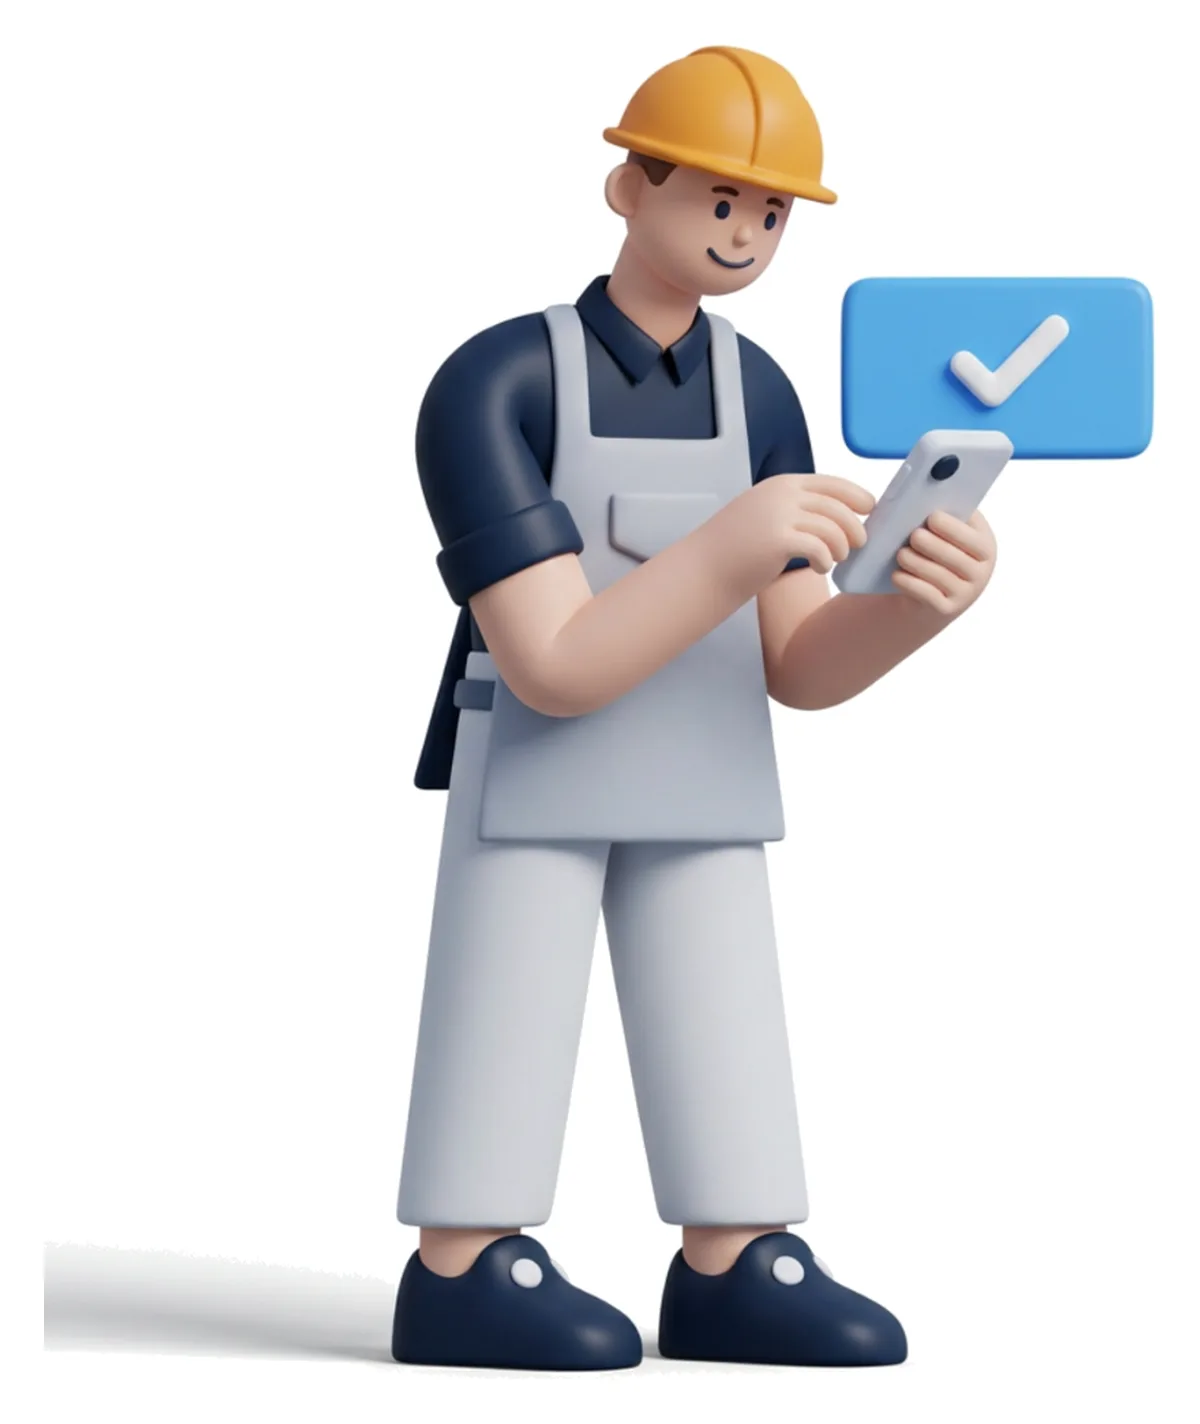
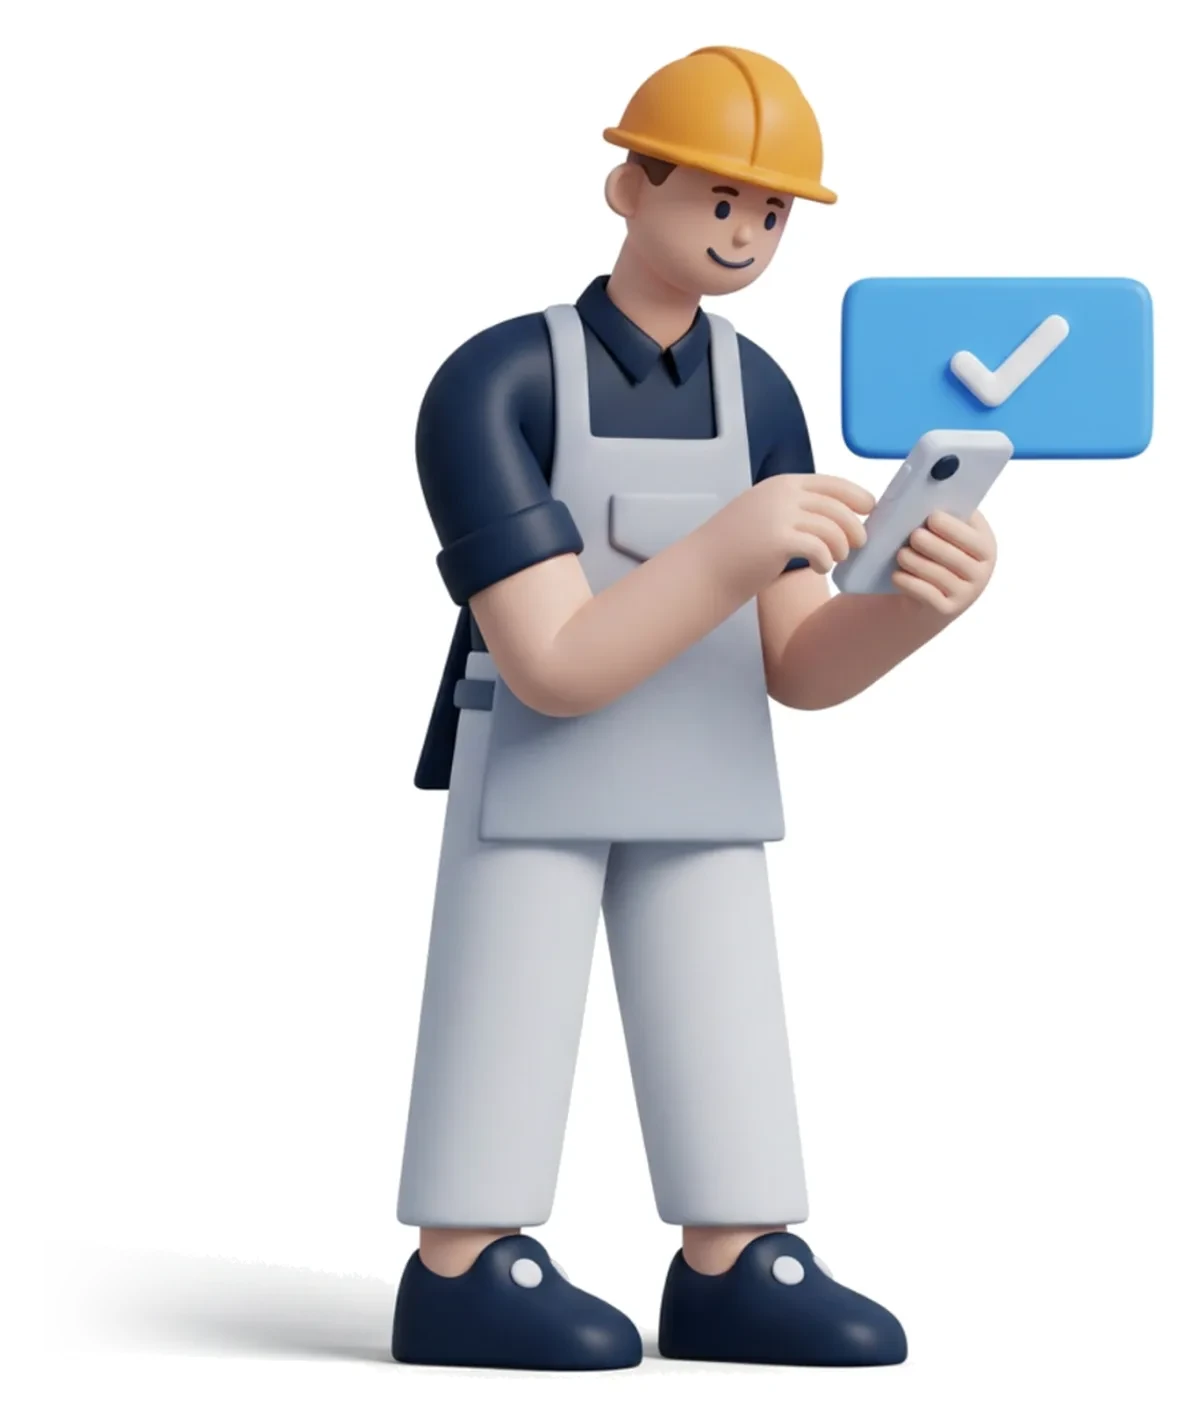
Funktionssidor: hero direkt under headern (R26), mjuk kant på illustrationer (R27), en rad underrubrik under sektionsrubriker (R28)
Claude-Session: https://claude.ai/code/session_015ffAXDxeVKdc77Zx7Ff7pg

Changed region(s): [[0.0308, 0.8961, 0.185, 0.9579]]

diff --git a/src/content/funktion-pages.ts b/src/content/funktion-pages.ts
@@ -51,6 +51,8 @@ export type FunktionPage = {
   lead: string;
   hero: FunktionImage;
   stepsHeading: [string, string];
+  /** R28: one line under the steps heading. */
+  stepsLead: string;
   steps: FunktionStep[];
   /** Long content (HTML, styled by .blog-article-content). */
   body: string;
@@ -158,6 +160,7 @@ const TIDSYSTEM: FunktionPage = {
     alt: 'Byggarbetare i hjälm checkar in med mobilen vid en byggarbetsplats med ställning och en platsmarkör',
   },
   stepsHeading: ['Tre steg', 'till lön'],
+  stepsLead: 'Stämpla in på bygget, granska timmarna och exportera.',
   steps: [
     {
       title: 'Stämpla in på bygget',
@@ -339,6 +342,7 @@ const HANTVERKARE: FunktionPage = {
     alt: 'Hantverkare med verktygsbälte och hjälm tittar i mobilen bredvid sin servicebil med öppna bakdörrar',
   },
   stepsHeading: ['Jobb, kvitto', 'och faktura'],
+  stepsLead: 'Tid per kund, kvitton på rätt jobb och faktura med ROT.',
   steps: [
     {
       title: 'Tid per kund',
@@ -504,6 +508,7 @@ const BYGGDAGBOK: FunktionPage = {
     alt: 'Arbetsledare i platskontoret skriver dagens anteckning vid datorn, med en byggkran och ett väderikon utanför fönstret',
   },
   stepsHeading: ['Dagboken', 'i projektet'],
+  stepsLead: 'Dagens anteckning, foton från bygget och vilka som var på plats.',
   steps: [
     {
       title: 'Dagens anteckning',
@@ -704,6 +709,7 @@ const RESURSPLANERING: FunktionPage = {
     alt: 'Planerare pekar på en stor tavla med ett Gantt-schema med blå staplar, en bygghjälm på golvet',
   },
   stepsHeading: ['Planera', 'och följ upp'],
+  stepsLead: 'Bemanning dag för dag, Gantt för alla projekt och uppföljning med timmar.',
   steps: [
     {
       title: 'Bemanning dag för dag',
@@ -899,6 +905,7 @@ const EGENKONTROLL: FunktionPage = {
     alt: 'Byggarbetare i hjälm håller en surfplatta med bockar framför en öppen regelvägg medan en kollega bär fram en gipsskiva',
   },
   stepsHeading: ['Dokumentera', 'kvaliteten'],
+  stepsLead: 'Foton från bygget, byggdagbok och uppgifter med deadline.',
   steps: [
     {
       title: 'Foton från bygget',
@@ -1114,6 +1121,7 @@ const ARBETSORDER: FunktionPage = {
     alt: 'Hantverkare i hjälm och förkläde trycker på mobilen bredvid en blå ruta med en vit bock',
   },
   stepsHeading: ['Boka', 'jobben'],
+  stepsLead: 'Boka i kalendern, samla underlaget på ordern och påminn tills det är klart.',
   steps: [
     {
       title: 'Boka i kalendern',

diff --git a/src/content/funksjon-pages-nb.ts b/src/content/funksjon-pages-nb.ts
@@ -81,6 +81,7 @@ const KS_SYSTEM: FunksjonPageNb = {
     alt: 'Bygningsarbeider med hjelm holder et nettbrett med haker foran en åpen bindingsverksvegg mens en kollega bærer frem en gipsplate',
   },
   stepsHeading: ['Dokumenter', 'kvaliteten'],
+  stepsLead: 'Bilder fra bygget, byggedagbok og tiltak med frist.',
   steps: [
     {
       title: 'Bilder fra bygget',
@@ -297,6 +298,7 @@ const TIMEREGISTRERING: FunksjonPageNb = {
     alt: 'Bygningsarbeider med hjelm sjekker inn med mobilen ved en byggeplass med stillas og en kartmarkør',
   },
   stepsHeading: ['Tre steg', 'til lønn'],
+  stepsLead: 'Stemple inn på bygget, gå gjennom timene og eksporter.',
   steps: [
     {
       title: 'Stemple inn på bygget',
@@ -480,6 +482,7 @@ const PROSJEKTSTYRING: FunksjonPageNb = {
     alt: 'Prosjektleder står ved en stor oversiktstavle med kort og diagrammer foran et hus under oppføring med stillas',
   },
   stepsHeading: ['Plan, oppgaver', 'og økonomi'],
+  stepsLead: 'Planlegg prosjektet, følg opp oppgavene og se marginen.',
   steps: [
     {
       title: 'Planlegg prosjektet',
@@ -670,6 +673,7 @@ const BEMANNINGSPLAN: FunksjonPageNb = {
     alt: 'Planlegger plasserer en arbeider med hjelm i en rute på en stor bemanningstavle med ansatte og dager',
   },
   stepsHeading: ['Planlegg', 'og følg opp'],
+  stepsLead: 'Bemanning dag for dag, Gantt og fravær i samme plan.',
   steps: [
     {
       title: 'Bemanning dag for dag',
@@ -873,6 +877,7 @@ const TILBUDSPROGRAM: FunksjonPageNb = {
     alt: 'Håndverker med caps sitter ved en bærbar PC og skriver, ved siden av et ark med et hus bak et stillas og en penn',
   },
   stepsHeading: ['Tilbud, faktura', 'og oppfølging'],
+  stepsLead: 'Lag tilbudet, fakturer timene og følg pengene.',
   steps: [
     {
       title: 'Lag tilbudet',
@@ -1111,6 +1116,7 @@ const HMS_SYSTEM: FunksjonPageNb = {
     alt: 'Bygningsarbeider med hjelm krysser av på en stor sjekkliste, med en ringende bjelle og en klokke ved siden av',
   },
   stepsHeading: ['Fra avvik', 'til lukket sak'],
+  stepsLead: 'Avvik fra dagboken, tiltak med frist og bilder fra bygget.',
   steps: [
     {
       title: 'Avvik fra dagboken',

diff --git a/src/components/FunktionPage/FunktionPageView.tsx b/src/components/FunktionPage/FunktionPageView.tsx
@@ -42,7 +42,9 @@ const UI = {
     prev: "Föregående",
     next: "Nästa",
     faq: "Vanliga frågor",
+    faqSub: "Korta svar på det byggföretag brukar fråga om.",
     guides: "Guider",
+    guidesSub: "Läs vidare om samma ämne.",
     priceNote: "14 dagar gratis · Ingen bindningstid · exkl. moms",
     close: "Stäng",
     usersFaktura: "max 2 användare",
@@ -62,7 +64,9 @@ const UI = {
     prev: "Forrige",
     next: "Neste",
     faq: "Vanlige spørsmål",
+    faqSub: "Korte svar på det byggefirmaer pleier å spørre om.",
     guides: "Guider",
+    guidesSub: "Les videre om samme tema.",
     priceNote: "14 dager gratis · Ingen bindingstid · eks. mva.",
     close: "Lukk",
     usersFaktura: "maks 2 brukere",
@@ -281,6 +285,7 @@ export default function FunktionPageView({ lang, slug }: Props) {
               <h2>
                 {page.stepsHeading[0]} <em>{page.stepsHeading[1]}</em>
               </h2>
+              <p className="fn-section-sub">{page.stepsLead}</p>
             </div>
             <div className="features-slider">
               {multiStep && (
@@ -376,6 +381,7 @@ export default function FunktionPageView({ lang, slug }: Props) {
               <h2 id="fn-faq-heading" className="lead-magnet-section-heading">
                 {ui.faq}
               </h2>
+              <p className="fn-section-sub">{ui.faqSub}</p>
               <dl className="lead-magnet-faq-list">
                 {page.faq.map((item) => (
                   <div key={item.question} className="lead-magnet-faq-item">
@@ -388,6 +394,7 @@ export default function FunktionPageView({ lang, slug }: Props) {
 
             <nav className="lead-magnet-related" aria-label={ui.guides}>
               <h2 className="lead-magnet-section-heading">{ui.guides}</h2>
+              <p className="fn-section-sub">{ui.guidesSub}</p>
               <ul className="lead-magnet-related-list">
                 {page.related.map((link) => (
                   <li key={link.href}>

diff --git a/src/styles/design-system.scss b/src/styles/design-system.scss
@@ -263,3 +263,55 @@
   color: var(--muted);
   line-height: 1.5;
 }
+
+/* R26: feature pages — hero text starts right under the header: smaller top
+   padding, columns aligned to the top, illustration height capped so a tall
+   image cannot push the heading down. */
+.fn .em-hero {
+  padding-top: 48px;
+}
+.fn .em-hero-inner {
+  align-items: start;
+}
+.fn-hero-visual img {
+  width: auto;
+  max-width: 100%;
+  max-height: 520px;
+  margin: 0 auto;
+}
+@media (max-width: 900px) {
+  .fn .em-hero {
+    padding-top: 32px;
+  }
+}
+
+/* R27: a baked shadow or floor must never end in a hard cut — every feature
+   page illustration fades out towards its edges. */
+.fn-hero-visual img,
+.blog-article-content .fn-illu img {
+  -webkit-mask-image: linear-gradient(to right, transparent 0, #000 10%, #000 90%, transparent 100%),
+    linear-gradient(to bottom, transparent 0, #000 6%, #000 94%, transparent 100%);
+  mask-image: linear-gradient(to right, transparent 0, #000 10%, #000 90%, transparent 100%),
+    linear-gradient(to bottom, transparent 0, #000 6%, #000 94%, transparent 100%);
+  -webkit-mask-composite: source-in;
+  mask-composite: intersect;
+}
+
+/* R28: feature pages — every section heading gets one line of subheading
+   (muted, same look as the R22 lead line). Replaces the "no subtitle" part of
+   R5 on these pages. */
+.fn .fn-section-sub {
+  margin: 10px 0 0;
+  color: var(--muted);
+  font-size: 1.05rem;
+  line-height: 1.5;
+}
+.fn .lead-magnet-section-heading {
+  margin-bottom: 0;
+}
+.fn .lead-magnet-section-heading + .fn-section-sub {
+  margin: 6px 0 16px;
+}
+.fn .section-head h2 {
+  margin-bottom: 0;
+}

diff --git a/src/content/funktion-pages-a.ts b/src/content/funktion-pages-a.ts
@@ -81,6 +81,7 @@ const STAMPELKLOCKA: FunktionPage = {
     alt: 'Byggarbetare i hjälm och overall stämplar in med mobilen framför en byggnad med ställning, med en blå platsmarkör ovanför',
   },
   stepsHeading: ['Stämpla in', 'och se läget'],
+  stepsLead: 'Stämpling i appen, läget i realtid och attest av timmarna.',
   steps: [
     {
       title: 'Se vem som är på jobbet',
@@ -266,6 +267,7 @@ const SCHEMALAGGNING: FunktionPage = {
     alt: 'Nöjd planerare lutar sig tillbaka i kontorsstolen bredvid en stor kalender med en bock',
   },
   stepsHeading: ['Lägg schemat', 'och följ upp'],
+  stepsLead: 'Planerade timmar, frånvaro och schema dag för dag.',
   steps: [
     {
       title: 'Planerade timmar per person',
@@ -459,6 +461,7 @@ const PROJEKTHANTERING: FunktionPage = {
     alt: 'Projektledare står vid en stor översiktspanel med kort och diagram framför ett hus under uppbyggnad med ställning',
   },
   stepsHeading: ['Allt om projektet', 'på ett ställe'],
+  stepsLead: 'Projektet, uppgifterna och fotona samlade för hela laget.',
   steps: [
     {
       title: 'Allt om projektet',
@@ -662,6 +665,7 @@ const PROJEKTPLANERING: FunktionPage = {
     alt: 'Projektledare pekar på en stor tavla med ett Gantt-schema där blå staplar ligger på var sin rad, med en kontorsstol bakom',
   },
   stepsHeading: ['Tidplan', 'från start till slut'],
+  stepsLead: 'Alla projekt i en tidslinje, vecka för vecka.',
   steps: [
     {
       title: 'Projekten vecka för vecka',

diff --git a/src/content/funktion-pages-b.ts b/src/content/funktion-pages-b.ts
@@ -91,6 +91,7 @@ const OFFERT_KALKYL: FunktionPage = {
     alt: 'Hantverkare i keps sitter vid en laptop och skriver, bredvid ett papper med en bild av ett hus bakom en byggställning och en penna',
   },
   stepsHeading: ['Kalkyl, offert', 'och faktura'],
+  stepsLead: 'Skapa offerten, gör om den till faktura och följ marginalen.',
   steps: [
     {
       title: 'Skapa offerten',
@@ -273,6 +274,7 @@ const FAKTURERING: FunktionPage = {
     alt: 'Hantverkare i hjälm står vid en laptop där ett papper med blå linjer kommer ut ur skärmen, bredvid ett litet hus med blått tak',
   },
   stepsHeading: ['Faktura, kvitto', 'och betalning'],
+  stepsLead: 'Skapa fakturan, lägg kostnaderna på projektet och följ betalningarna.',
   steps: [
     {
       title: 'Skapa fakturan',
@@ -452,6 +454,7 @@ const LON: FunktionPage = {
     alt: 'Kvinna vid ett skrivbord framför en skärm med stapeldiagram och en klocka, med en hög guldmynt bredvid tangentbordet',
   },
   stepsHeading: ['Från timmar', 'till lön'],
+  stepsLead: 'Timmar från appen, attest och lönekörning.',
   steps: [
     {
       title: 'Timmar från appen',
@@ -650,6 +653,7 @@ const ATA: FunktionPage = {
     alt: 'Snickare i hjälm har lyft upp en golvskiva i ett badrum och visar rören under för en kund som böjer sig fram',
   },
   stepsHeading: ['Registrera, godkänn', 'och fakturera'],
+  stepsLead: 'Märk dagen med ÄTA, följ beloppen och fakturera.',
   steps: [
     {
       title: 'Märk dagen med ÄTA',

diff --git a/src/content/funktion-pages-c.ts b/src/content/funktion-pages-c.ts
@@ -81,6 +81,7 @@ const UTLAGG: FunktionPage = {
     alt: 'Byggarbetare i hjälm fotar ett kvitto med mobilen utanför en butik',
   },
   stepsHeading: ['Från kvitto', 'till projekt'],
+  stepsLead: 'Fota kvittot, attestera och följ kostnaden på projektet.',
   steps: [
     {
       title: 'Fota kvittot',
@@ -271,6 +272,7 @@ const VERKTYG: FunktionPage = {
     alt: 'Hantverkare på knä håller en blå skruvdragare och en QR-etikett, en verktygslåda och en cirkelsåg på hyllan bakom',
   },
   stepsHeading: ['Register', 'med QR-kod'],
+  stepsLead: 'Registrera verktygen och se vem som har vad.',
   steps: [
     {
       title: 'Registrera verktygen',

diff --git a/DESIGN-SYSTEM.md b/DESIGN-SYSTEM.md
@@ -87,6 +87,15 @@
 
 **R25 · 2026-11-15 · Термин «order».** То, что создаёт «Ny bokning → Arbetsorder», называется order / arbetsorder (раньше называли проект). На сайте не пишем «ordern blir ett projekt»; слово «Projekt» — только как название списка в меню, пока оно так подписано в продукте.
 
+**R26 · 2026-11-15 · Страницы функций: первый экран начинается сразу под шапкой.** В hero `/sv/funktioner/<slug>` и `/nb/funksjoner/<slug>` текст (крошки → H1 → цена → лид → кнопка) прижат к верху: верхний отступ секции 48px (моб. 32px), колонки выровнены по верху, а не по центру. Высота иллюстрации ограничена 520px, чтобы высокая картинка не растягивала экран и не отодвигала заголовок вниз.
+Код: `.fn .em-hero`, `.fn .em-hero-inner`, `.fn-hero-visual img` в `src/styles/design-system.scss`.
+
+**R27 · 2026-11-15 · Тень и край иллюстрации никогда не обрываются резко.** У 3D-иллюстраций тень «впечена» в картинку и может упираться в её край. Поэтому все иллюстрации страниц функций (hero и в тексте) растворяются к краям маской: по 10% слева и справа, 6% сверху и снизу. Прямой срез тени или пола на странице — брак.
+Код: `.fn-hero-visual img`, `.blog-article-content .fn-illu img` в `src/styles/design-system.scss`.
+
+**R28 · 2026-11-15 · Страницы функций: под заголовком секции — одна строка подзаголовка.** На `/sv/funktioner/<slug>` и `/nb/funksjoner/<slug>` у заголовков секций (шаги, «Vanliga frågor», «Guider»; у блока цены строка уже есть) стоит подзаголовок в одну строку, серым, без точки с запятой и без второй фразы. Для шагов текст задаётся полем `stepsLead` страницы (что именно показано в шагах), для FAQ и Guider — общий на язык. Заменяет на этих страницах часть R5 «без подзаголовка»; надзаголовков (eyebrow) по-прежнему нет.
+Код: `FunktionPageView.tsx` (`.fn-section-sub`), поле `stepsLead` в `src/content/funktion-pages*.ts` и `funksjon-pages-nb.ts`, стиль в `src/styles/design-system.scss`.
+
 ## Чек-лист перед показом
 1. Соседние панели/кнопки одной высоты и радиуса (R1).
 2. Ряд кнопок и полей — на одной линии, одной высоты (R3).
